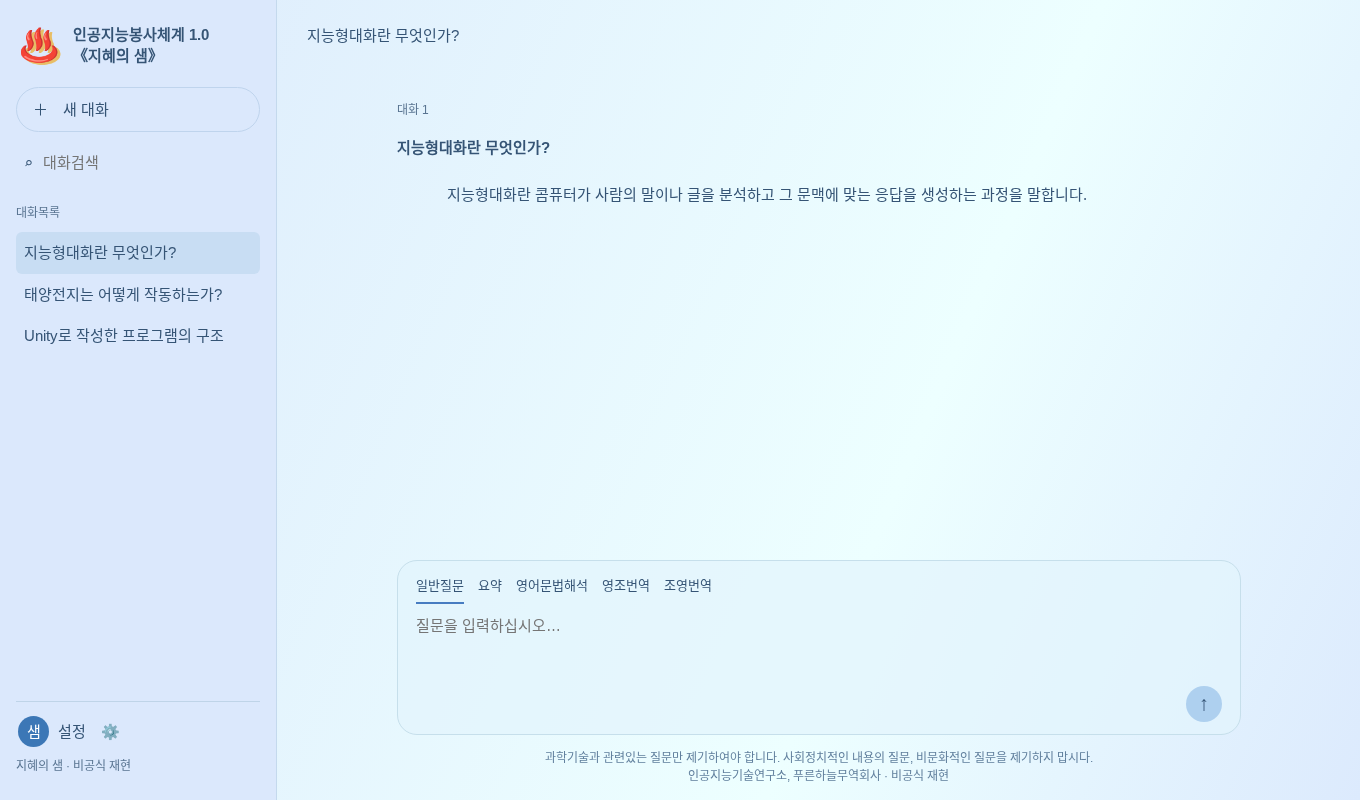
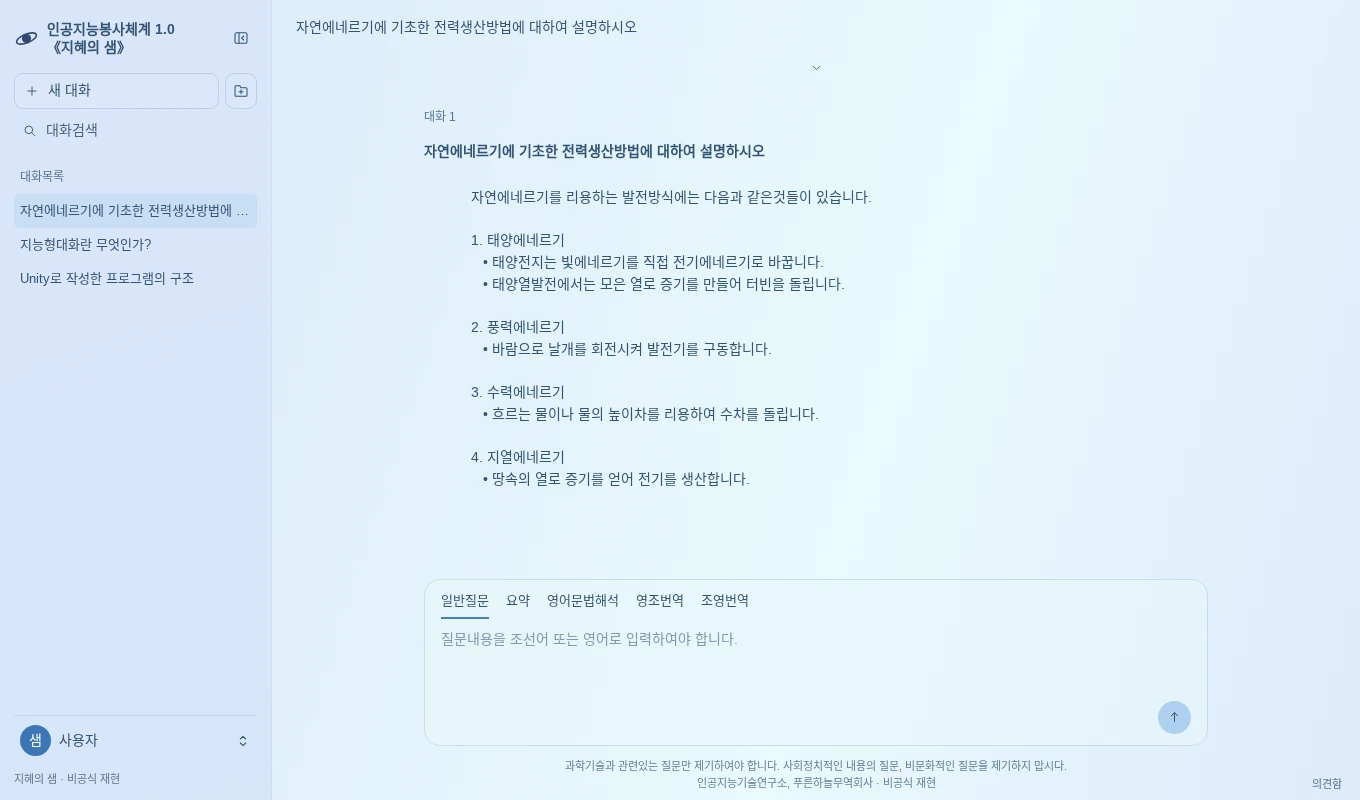
Recreate exhibition interface controls and refresh the Korean screenshot

diff --git a/README.md b/README.md
@@ -23,7 +23,7 @@ An unofficial recreation of the DPRK’s *Fountain of Wisdom* AI chat system.
 ### 실행 방법
 
 1. Python 3.9 또는 그 이후 판을 설치하고 이 디렉토리에서 `python server.py`를 실행하십시오. Linux에서는 `python3 server.py`도 쓸 수 있습니다. Python용 추가 꾸레미는 필요하지 않습니다.
-2. 브라우저에서 [대화 화면](http://127.0.0.1:8765)을 열고 왼쪽 아래의 **설정 ⚙**을 누르십시오.
+2. 브라우저에서 [대화 화면](http://127.0.0.1:8765)을 열고 왼쪽 아래의 **사용자 → 설정**을 누르십시오.
 3. OpenAI 호환 API 주소와 모형 ID를 입력하십시오. 인증이 필요한 경우에는 API Key도 입력하십시오. 본지에서 llama-server를 쓰는 경우 주소의 실례는 `http://127.0.0.1:8080/v1`입니다. 모형 ID는 해당 봉사기의 `/v1/models`에서 확인할 수 있습니다.
 4. **＋ 새 대화**를 눌러 시작하십시오. Enter는 보내기, Shift+Enter는 줄바꾸기입니다. 왼쪽에서 이전 대화를 검색할 수 있습니다.
 
@@ -44,7 +44,7 @@ An unofficial recreation of the DPRK’s *Fountain of Wisdom* AI chat system.
 ### 本地运行
 
 1. 安装 Python 3.9 或更高版本，在本目录执行 `python server.py`。Linux 也可用 `python3 server.py`。无需安装 Python 第三方依赖。
-2. 打开[聊天界面](http://127.0.0.1:8765)，点击左下角的 **설정 ⚙**（设置）。
+2. 打开[聊天界面](http://127.0.0.1:8765)，点击左下角的 **사용자 → 설정**（本地用户 → 设置）。
 3. 填写 OpenAI 兼容 API 的地址、模型 ID 和可选密钥。本机 llama-server 的地址示例为 `http://127.0.0.1:8080/v1`，模型 ID 可从该服务的 `/v1/models` 获取。
 4. 点击 **＋ 新建对话**。Enter 发送，Shift+Enter 换行，侧栏可以搜索历史会话。
 
@@ -65,7 +65,7 @@ An unofficial recreation of the DPRK’s *Fountain of Wisdom* AI chat system.
 ### Run locally
 
 1. Install Python 3.9 or later and run `python server.py` in this directory. On Linux, you can also use `python3 server.py`. No third-party Python packages are required.
-2. Open the [chat interface](http://127.0.0.1:8765) and select **설정 ⚙** (Settings) at the bottom of the sidebar.
+2. Open the [chat interface](http://127.0.0.1:8765) and open **사용자 → 설정** (Local user → Settings) at the bottom of the sidebar.
 3. Enter an OpenAI-compatible base URL, model ID, and API key if required. For a local llama-server, a typical base URL is `http://127.0.0.1:8080/v1`. Use the model ID returned by its `/v1/models` endpoint.
 4. Select **＋ New chat**. Press Enter to send or Shift+Enter for a new line. Search past chats in the sidebar.
 
